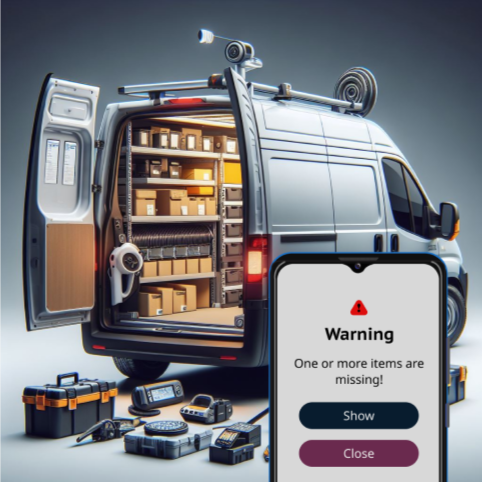
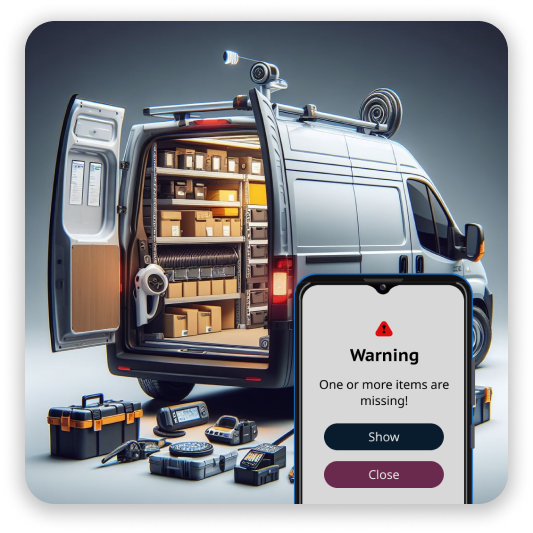
project

diff --git a/styles.css b/styles.css
@@ -439,8 +439,9 @@ margin-top: -2rem;
   .problemtele,.solution,.beneficiaries,
   .goaltele,
   .solution_exampletele {
-    width:100%; 
-    top:8rem;
+    width:100%;
+    height: auto; 
+    top:9rem;
     background-color: #EAEAEA;
     background-position:center;
     background-size: cover;
@@ -450,6 +451,15 @@ margin-top: -2rem;
     justify-content: center;
   }
 
+  .goaltele,
+  .solution_exampletele{
+    top:12rem;
+  }
+
+  .problemtele{
+    top:13rem
+  }
+
 
   .problem,
   .goal,
@@ -457,6 +467,15 @@ margin-top: -2rem;
     display: none;
   }
 
+  .beneficiaries{
+    padding-bottom: 8rem;
+  }
+
+  .beneficiaries img{
+    margin-top: 0.01rem;
+  }
+
+  
   .problem__text,
   .goal__text,
   .solution_example__text{
@@ -472,26 +491,27 @@ margin-top: -2rem;
     font-family: var(--titulos-font-family);
   }
 
-  .goal__img,
   .problem__img,
   .solution_img,
-  .partner__img{
-    
+  .partner__img,
+  .beneficiaries__img{
   transform: translate(0%,0%);
   position: relative;
-
   }
-  .solution_example__img,
-  .beneficiaries__img{
-    transform: translate(0%,0%);
+
+  .goal__img,
+  .solution_example__img
+  {
+    transform: translate(0%,-10%);
     position: relative;
     max-width: 100%;
     margin-top: 0%;
+    scale: 0.7;
   }
+
   .beneficiaries__img{
     scale: 1;
     top: 2rem;
-  
   }
 
   .Pdfbutton_background{
